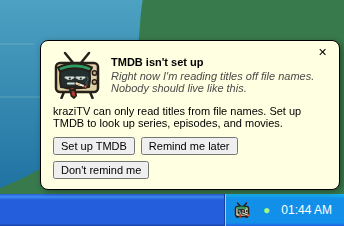
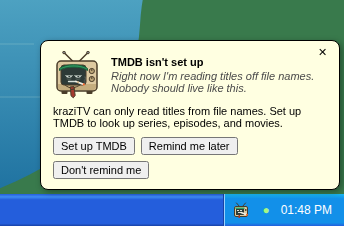
POLISH-069: Gregg's final pick

diff --git a/apps/web/src/tray-reminders/drawings/gregg-figure.tsx b/apps/web/src/tray-reminders/drawings/gregg-figure.tsx
@@ -1,10 +1,9 @@
 /**
- * Gregg at 48 px for the balloon (spec 0006, The tray assistant): a squat
- * 1950s set in heavy ink, with thick dark outlines, a barrel-curved screen,
- * two knobs, rabbit ears, and splayed legs. His visor is a cap-like brim that
- * crests the top of the body; the eyes are heavy-lidded light shapes on dark
- * glass, the mouth is flat, and the loosened tie hangs over the body's bottom
- * edge. The cigarette's smoke wisp is `.gregg-smoke`, drawn last so it rises
+ * Gregg at 48 px for the balloon (spec 0006, The tray assistant): a boxy
+ * outlined CRT in the manner of a 1970s portable, screen on the left and two
+ * dials on the right, his face light on dark glass. The visor is a green brim
+ * over the top bezel; the tie hangs loose from the bottom bezel between the
+ * feet. The cigarette's smoke wisp is `.gregg-smoke`, drawn last so it rises
  * over the glass, and animated by `tray-reminders.css` alone. The drawing is
  * decorative: the balloon names him in text.
  */
@@ -17,114 +16,125 @@ export function GreggFigure({ className }: { className?: string }) {
       height="48"
       aria-hidden="true"
     >
+      {/* Rabbit ears, with ball tips so they read as antennas, not cracks. */}
       <path
-        d="M21 13 12 2M27 13l9-11"
-        stroke="#26201a"
-        strokeWidth="2.5"
+        d="M20 10.5 11 1.5M26 10.5l9-9"
+        stroke="#4a3d2a"
+        strokeWidth="1.5"
         strokeLinecap="round"
       />
-      <path
-        d="M11 41l-2.5 6M37 41l2.5 6"
-        stroke="#26201a"
-        strokeWidth="2.5"
-        strokeLinecap="round"
-      />
+      <circle cx="11" cy="1.5" r="1.3" fill="#8c8f94" stroke="#4a3d2a" />
+      <circle cx="35" cy="1.5" r="1.3" fill="#8c8f94" stroke="#4a3d2a" />
+      {/* Two feet under the body, behind it, so it sits rather than floats. */}
+      <rect x="8.5" y="39" width="6" height="4" rx="1" fill="#4a3d2a" />
+      <rect x="33.5" y="39" width="6" height="4" rx="1" fill="#4a3d2a" />
+      {/* The beige cabinet; its outline sets the drawing's line weight. */}
       <rect
-        x="3"
-        y="12"
-        width="42"
-        height="29"
+        x="4"
+        y="10"
+        width="40"
+        height="30"
         rx="4"
-        fill="#e1cfa5"
-        stroke="#26201a"
-        strokeWidth="2.5"
-      />
-      <path
-        d="M8 17Q22 14.5 36 17Q38 27 36 36Q22 38.5 8 36Q6 27 8 17z"
-        fill="#243030"
-        stroke="#26201a"
-        strokeWidth="2"
-      />
-      <circle
-        cx="41.5"
-        cy="22"
-        r="2.2"
-        fill="#c9b283"
-        stroke="#26201a"
+        fill="#ddc9a0"
+        stroke="#4a3d2a"
         strokeWidth="1.5"
       />
-      <circle
-        cx="41.5"
-        cy="31"
-        r="2.2"
-        fill="#c9b283"
-        stroke="#26201a"
-        strokeWidth="1.5"
+      {/* A darker base band, the speaker grille strip of a portable. */}
+      <path d="M5 33h38v3a3 3 0 0 1-3 3H8a3 3 0 0 1-3-3z" fill="#c4ad7e" />
+      {/* The screen, left of the dials, dark so his light face shows on it. */}
+      <rect
+        x="8"
+        y="14"
+        width="25"
+        height="20"
+        rx="3"
+        fill="#2d3a37"
+        stroke="#4a3d2a"
       />
+      {/* One faint glass highlight in the top corner, so the screen curves. */}
       <path
-        d="M5 16.5Q22 8.5 39 16.5L37 20.5Q22 14 7 20.5Z"
-        fill="#2e9d62"
-        stroke="#26201a"
-        strokeWidth="2"
+        d="M10.5 17.5q2-2 5-2"
+        stroke="#fff"
+        strokeOpacity=".18"
+        strokeWidth="1.2"
+        strokeLinecap="round"
+        fill="none"
+      />
+      {/* Two dials with pointer marks: channel above, volume below. */}
+      <circle cx="38.8" cy="20" r="2.6" fill="#bda77a" stroke="#4a3d2a" />
+      <path d="M38.8 18v2" stroke="#4a3d2a" />
+      <circle cx="38.8" cy="28" r="2.6" fill="#bda77a" stroke="#4a3d2a" />
+      <path d="M38.8 26v2" stroke="#4a3d2a" />
+      {/* The green eyeshade, a translucent brim across the top of the screen. */}
+      <path
+        d="M6.5 17.5C12 12.5 29 12.5 34.5 17.5V19.5C29 15 12 15 6.5 19.5Z"
+        fill="#2f9e63"
+        fillOpacity=".92"
+        stroke="#1b5e3a"
         strokeLinejoin="round"
       />
-      <path d="M13 26.5a3.5 2.5 0 0 0 7 0z" fill="#d9e1d7" />
-      <path d="M24 26.5a3.5 2.5 0 0 0 7 0z" fill="#d9e1d7" />
+      {/* Half-lidded eyes: the lower half of each eye shows, with a pupil. */}
+      <path d="M13 24.5a3 2.2 0 0 0 6 0z" fill="#d7dfd8" />
+      <path d="M22 24.5a3 2.2 0 0 0 6 0z" fill="#d7dfd8" />
+      <circle cx="16.3" cy="25.2" r="1" fill="#2d3a37" />
+      <circle cx="25.3" cy="25.2" r="1" fill="#2d3a37" />
+      {/* The lids, a flat grey line across each eye, which makes them tired. */}
       <path
-        d="M12.5 26.5h8M23.5 26.5h8"
-        stroke="#d9e1d7"
-        strokeWidth="2"
+        d="M12.5 24.5h7M21.5 24.5h7"
+        stroke="#8e9a93"
         strokeLinecap="round"
       />
-      <circle cx="16.8" cy="27.6" r="1.1" fill="#243030" />
-      <circle cx="27.8" cy="27.6" r="1.1" fill="#243030" />
+      {/* Bags under the eyes, fainter than the lids. */}
       <path
-        d="M15 32.5h8.5"
-        stroke="#d9e1d7"
-        strokeWidth="2.2"
+        d="M14 28q2 .9 4 0M23 28q2 .9 4 0"
+        stroke="#59665f"
+        strokeWidth=".9"
+        strokeLinecap="round"
+        fill="none"
+      />
+      {/* A flat mouth, as the spec has it: never a smile, never a frown. */}
+      <path
+        d="M15.5 30.5h7.5"
+        stroke="#d7dfd8"
+        strokeWidth="1.3"
         strokeLinecap="round"
       />
+      {/* The cigarette from the mouth's corner: paper, tan filter, orange ember. */}
       <path
-        d="M23.5 32.5 32 35.5"
-        stroke="#26201a"
-        strokeWidth="4"
-        strokeLinecap="round"
-      />
-      <path
-        d="M23.5 32.5 32 35.5"
-        stroke="#f3efe4"
-        strokeWidth="2.2"
-        strokeLinecap="round"
-      />
-      <path d="M24.8 33l1.8.6" stroke="#cfa868" strokeWidth="2.2" />
-      <circle cx="32.4" cy="35.7" r="1.5" fill="#ff6a2b" stroke="#26201a" />
-      <path
-        d="M11 36q3.5 2.5 5.8.8M21.5 35.6q3.5 2.5 7 .4"
-        stroke="#26201a"
+        d="M23 30.5 30.5 33.3"
+        stroke="#f3efe3"
         strokeWidth="1.8"
+        strokeLinecap="round"
+      />
+      <path d="M24.4 31l1.3.5" stroke="#c9a46a" strokeWidth="1.8" />
+      <circle cx="30.8" cy="33.4" r="1.1" fill="#ff6a2b" />
+      {/* Chin creases on the base band, so the tie hangs from a jaw line. */}
+      <path
+        d="M12.5 34.5q3.5 2.5 6 2.6M20 37q3.5-1 6.5-2.6"
+        stroke="#4a3d2a"
         fill="none"
         strokeLinecap="round"
       />
+      {/* The loosened tie: knot on the bezel, blade past the cabinet's edge. */}
       <path
-        d="M16.5 36.5l5-.5.4 3-4.5.7z"
-        fill="#b23a2f"
-        stroke="#26201a"
-        strokeWidth="1.8"
+        d="M17 36l4-.4.4 2.6-3.6.6z"
+        fill="#a73a2e"
+        stroke="#4a3d2a"
         strokeLinejoin="round"
       />
       <path
-        d="M17.4 39.7l4.5-.7 1.3 5.6-2.2 2.4-2.6-2.2z"
-        fill="#b23a2f"
-        stroke="#26201a"
-        strokeWidth="1.8"
+        d="M17.6 38.6l3.6-.6 1 6.4-1.9 2.4-2.3-2z"
+        fill="#a73a2e"
+        stroke="#4a3d2a"
         strokeLinejoin="round"
       />
+      {/* The smoke, last and in a light grey, so it reads on the dark glass. */}
       <path
         className="gregg-smoke"
-        d="M33.4 33.6c2.2-1.5-1.6-3.3.3-5.3s2-2.9.2-4.9"
+        d="M31.5 31.5c1.6-1.4-1.4-2.8.2-4.4s1.5-2.2 0-3.6"
         fill="none"
         stroke="#c3cbc4"
-        strokeWidth="1.4"
+        strokeWidth="1.2"
         strokeLinecap="round"
       />
     </svg>

diff --git a/apps/web/src/tray-reminders/drawings/gregg-head.tsx b/apps/web/src/tray-reminders/drawings/gregg-head.tsx
@@ -1,11 +1,11 @@
 /**
- * Gregg at 16 px for the tray (spec 0006, The tray assistant): the same
- * heavy ink at 1.5 px on a squat outlined box with two leg stubs, rabbit
- * ears, a rounded dark screen, the visor as a green arc over the top bezel,
- * two eye slits, a flat mouth, and an outlined cigarette whose orange ember
- * pokes past the body, so he still reads as a TV with a cigarette on the
- * tray's blue. No smoke at this size; it would be a stray pixel. Decorative:
- * the tray icon's label names the balloon it opens.
+ * Gregg at 16 px for the tray (spec 0006, The tray assistant): drawn on the
+ * pixel grid, not scaled from the figure. Rabbit ears, the outlined beige
+ * cabinet, a dark screen with the visor as a green band across its top, two
+ * eye slits, a flat mouth, one dial, and the cigarette ending in an orange
+ * ember past the screen's edge, which is what still reads as a TV with a
+ * cigarette on the tray's blue. No smoke at this size; it would be a stray
+ * pixel. Decorative: the tray icon's label names the balloon it opens.
  */
 export function GreggHead({ className }: { className?: string }) {
   return (
@@ -16,53 +16,42 @@ export function GreggHead({ className }: { className?: string }) {
       height="16"
       aria-hidden="true"
     >
+      {/* Rabbit ears at 45 degrees, the one angle a 1 px line keeps crisp. */}
       <path
         d="M6.5 4.5 3.5 1M9.5 4.5 12.5 1"
-        stroke="#26201a"
-        strokeWidth="1.5"
+        stroke="#4a3d2a"
         strokeLinecap="round"
       />
-      <path
-        d="M4 14.5 3 16M12 14.5l1 1.5"
-        stroke="#26201a"
-        strokeWidth="1.5"
-        strokeLinecap="round"
-      />
+      {/* The cabinet on half-pixel bounds, so its 1 px outline is not blurred. */}
       <rect
         x="1.5"
         y="4.5"
         width="13"
         height="10"
-        rx="2"
-        fill="#e1cfa5"
-        stroke="#26201a"
-        strokeWidth="1.5"
+        rx="1.5"
+        fill="#ddc9a0"
+        stroke="#4a3d2a"
       />
-      <rect x="3.5" y="6.5" width="7.5" height="6" rx="2" fill="#243030" />
+      {/* The screen, left of the dial, whole pixels so it stays a solid block. */}
+      <rect x="3" y="6" width="8" height="7" fill="#2d3a37" />
+      {/* The visor as a green band over the screen's top edge. */}
+      <rect x="2.5" y="5.5" width="9" height="1.5" fill="#2f9e63" />
+      {/* Two eye slits and a flat mouth: the face at this size. */}
+      <rect x="4" y="8" width="2" height="1" fill="#d7dfd8" />
+      <rect x="7" y="8" width="2" height="1" fill="#d7dfd8" />
+      <path d="M5 10.5h3" stroke="#d7dfd8" />
+      {/* One dial beside the screen keeps the portable's screen-left layout. */}
+      <circle cx="12.75" cy="8" r=".9" fill="#4a3d2a" />
+      {/* The cigarette, pale on the dark screen, with its ember past the bezel. */}
       <path
-        d="M2.5 6.5Q7.5 4.5 12.5 6.5"
-        stroke="#2e9d62"
-        strokeWidth="2"
-        fill="none"
-      />
-      <rect x="4.5" y="8.5" width="2" height="1" fill="#d9e1d7" />
-      <rect x="8" y="8.5" width="2" height="1" fill="#d9e1d7" />
-      <path d="M5.5 11h3" stroke="#d9e1d7" strokeWidth="1.2" />
-      <circle cx="12.75" cy="9" r=".9" fill="#26201a" />
-      <path
-        d="M8.5 11 13.5 13"
-        stroke="#26201a"
-        strokeWidth="2.6"
+        d="M8 10.5 13.5 12.5"
+        stroke="#f3efe3"
+        strokeWidth="1.4"
         strokeLinecap="round"
       />
-      <path
-        d="M8.5 11 13.5 13"
-        stroke="#f3efe4"
-        strokeWidth="1.2"
-        strokeLinecap="round"
-      />
-      <circle cx="13.9" cy="13.2" r="1.1" fill="#ff6a2b" />
-      <rect x="5.5" y="12.5" width="1.6" height="3.5" fill="#b23a2f" />
+      <circle cx="13.9" cy="12.7" r="1" fill="#ff6a2b" />
+      {/* The tie's blade below the cabinet. */}
+      <rect x="5.5" y="13" width="1.5" height="3" fill="#a73a2e" />
     </svg>
   );
 }

diff --git a/apps/web/src/tray-reminders/drawings/gregg-drawings.test.ts b/apps/web/src/tray-reminders/drawings/gregg-drawings.test.ts
@@ -31,6 +31,8 @@ it("draws the 48 px figure as a decorative SVG with one smoke wisp of its own", 
   expect(svg.getAttribute("viewBox")).toBe("0 0 48 48");
   expect(svg.getAttribute("class")).toBe("placed");
   expect(svg.querySelectorAll(".gregg-smoke")).toHaveLength(1);
+  // Drawn last, so the wisp rises over the glass and nothing covers it.
+  expect(svg.lastElementChild?.classList.contains("gregg-smoke")).toBe(true);
   // The balloon names him in text; the drawing itself says nothing.
   expect(svg.textContent).toBe("");
 });

diff --git a/docs/implementation_plan/004-release-polish/0006-tray-reminders.md b/docs/implementation_plan/004-release-polish/0006-tray-reminders.md
@@ -2,7 +2,7 @@
 
 <!-- plan-progress:start: generated by `npm run plan:status` from ticket Status blocks; do not edit -->
 
-Progress: 6 of 7 tickets complete.
+Progress: 7 of 7 tickets complete.
 
 | Ticket     | Title                                      | Status                 |
 | ---------- | ------------------------------------------ | ---------------------- |
@@ -12,7 +12,7 @@ Progress: 6 of 7 tickets complete.
 | POLISH-066 | Saving a key looks the library up          | Complete on 2026-11-11 |
 | POLISH-067 | Files not looked up, and collections ready | Complete on 2026-11-11 |
 | POLISH-068 | The first-run walk and the wiki            | Complete on 2026-11-12 |
-| POLISH-069 | Gregg's final pick                         | Open                   |
+| POLISH-069 | Gregg's final pick                         | Complete on 2026-11-12 |
 
 <!-- plan-progress:end -->
 
@@ -318,6 +318,14 @@ writes into the live app), `npm run plan:status:check`,
 **Docs impact**: This ticket is the docs impact.
 
 ### POLISH-069: Gregg's final pick
+
+**Status**
+
+Complete on 2026-11-12. The owner picked take A, the outlined 1970s portable,
+on the drafts sheet on 2026-11-12, and the drawing files were swapped from
+take C with the smoke drawn last in a lighter grey; the balloon screenshot was
+retaken from the demo library. Setting spec 0006 and the feature README to
+Implemented waits for POLISH-070, which the owner added at the pick.
 
 **Goal**: The owner picks the Gregg kraziTV ships, and the spec is done.
 

diff --git a/docs/implementation_plan/README.md b/docs/implementation_plan/README.md
@@ -70,7 +70,7 @@ at the top of each plan are generated from ticket Status blocks by
 - [Release Polish Spec 0003 Implementation Plan: Release Readiness](004-release-polish/0003-release-readiness.md) - 11 of 11 tickets complete
 - [Release Polish Spec 0004 Implementation Plan: Second Polish Pass](004-release-polish/0004-second-polish-pass.md) - 13 of 13 tickets complete
 - [Release Polish Spec 0005 Implementation Plan: Third Polish Pass](004-release-polish/0005-third-polish-pass.md) - 24 of 24 tickets complete
-- [Release Polish Spec 0006 Implementation Plan: Tray Reminders](004-release-polish/0006-tray-reminders.md) - 6 of 7 tickets complete
+- [Release Polish Spec 0006 Implementation Plan: Tray Reminders](004-release-polish/0006-tray-reminders.md) - 7 of 7 tickets complete
 
 <!-- plan-index:end -->
 
